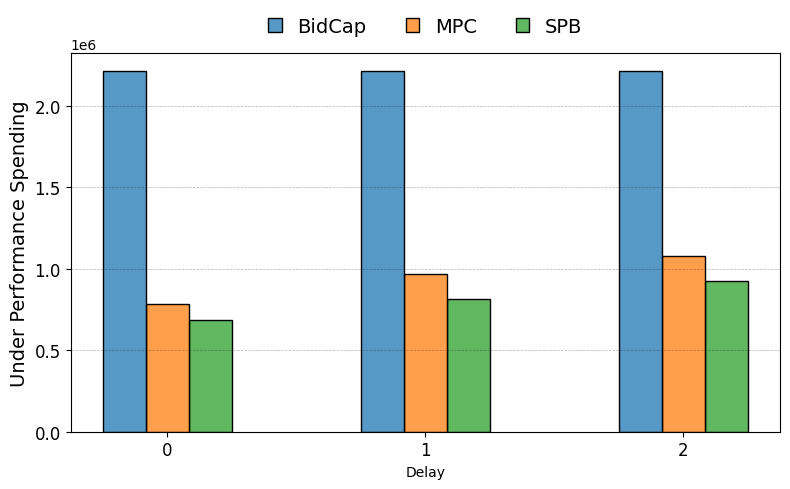
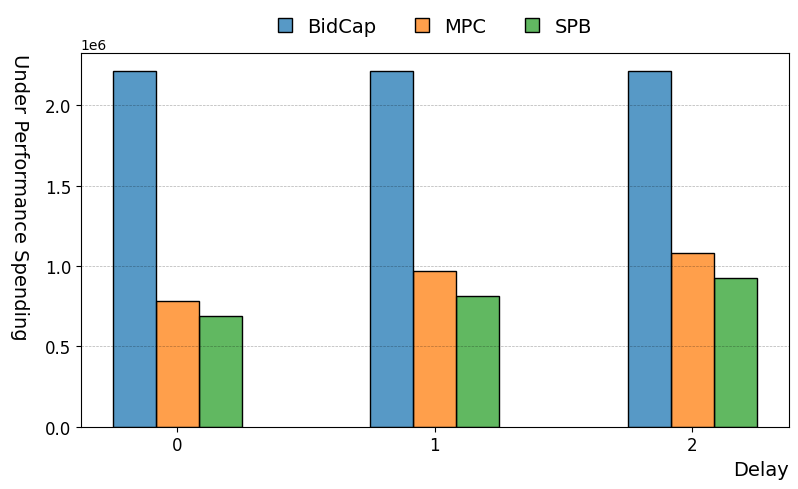
update image style

diff --git a/src/compare.py b/src/compare.py
@@ -4,28 +4,52 @@ import numpy as np
 import seaborn as sns
 import os
 
+# use grayscale paperback version
+paper = False
+
 FIGSIZE = (8, 5)
 FONTSIZE = 14
 E1 = '\u03b51'
 output_dir = '.'
 fmt = 'pdf'
-#sns.set_palette([(0, 0, 0), (1, 1, 1), (0.5, 0.5, 0.5)])
 
 name_map = {
     'Bid Cap Bidder': 'BidCap',
     'MPC Bidder': 'MPC',
     'SPB Bidder': 'SPB',
 }
+measure_map = {}
+dim_map = {}
+rc_params = {}          
+
+if paper:
+    from matplotlib.ticker import FormatStrFormatter
+    sns.set_palette([(0, 0, 0), (1, 1, 1), (0.5, 0.5, 0.5)])
+    rc_params = {'mathtext.default': 'regular'}          
+    measure_map = {
+        'Violation Value Ratio': 'Violation Group GMV Ratio (%)',
+        'Value Ratio': 'GMV Density (%)',
+    }
+
+    dim_map = {'Roi vs Target Roi': '$R_{result}/R_{target}$'}
 
 def plot_measure_over_dim(df, measure_name, dim, cumulative=False, log_y=False, yrange=None, optimal=None):
     fig, axes = plt.subplots(figsize=FIGSIZE)
+    plt.rcParams.update(rc_params)
     #plt.title(f'{measure_name} Over {dim}', fontsize=FONTSIZE + 2, y=-0.2)
     min_measure, max_measure = 0.0, 0.0
-    sns.lineplot(data=df, x=dim, y=measure_name, hue='Agent', ax=axes
-            #,palette=['0', '0', '0'], style='Agent', style_order=sorted(name_map.values()), dashes=[(1, 1), (4, 2), (1, 0)], markers=True
-            )
+    if paper:
+        sns.lineplot(data=df, x=dim, y=measure_name, hue='Agent', ax=axes
+                ,palette=['0', '0', '0'], style='Agent', style_order=sorted(name_map.values()), dashes=[(1, 1), (4, 2), (1, 0)], markers=True)
+    else:
+        sns.lineplot(data=df, x=dim, y=measure_name, hue='Agent', ax=axes)
     plt.xticks(np.arange(df[dim].min(), df[dim].max() + 0.1, 0.1), fontsize=FONTSIZE - 2)
-    plt.ylabel(f'{measure_name}', fontsize=FONTSIZE)
+    name = measure_map.get(measure_name, measure_name)
+    plt.ylabel(name, loc='bottom', fontsize=FONTSIZE, rotation=270)
+    if name.endswith('(%)'):
+        plt.gca().yaxis.set_major_formatter(FormatStrFormatter('%d%%'))
+    axes.yaxis.set_label_coords(-0.1, 1)
+    plt.xlabel(dim_map.get(dim, dim), loc='right', fontsize=FONTSIZE)
     if optimal is not None:
         plt.axhline(optimal, ls='--', color='gray', label='Optimal')
         min_measure = min(min_measure, optimal)
@@ -38,11 +62,12 @@ def plot_measure_over_dim(df, measure_name, dim, cumulative=False, log_y=False, 
         plt.ylim(yrange[0], yrange[1])
     plt.yticks(fontsize=FONTSIZE - 2)
     plt.grid(True, 'major', 'y', ls='--', lw=.5, c='k', alpha=.3)
-    #handles, labels = plt.gca().get_legend_handles_labels()
-    #order = list(reversed(range(len(labels))))
-    plt.legend(
-            #[handles[idx] for idx in order],[labels[idx] for idx in order],
-            loc='lower center', bbox_to_anchor=(.5, 1), fontsize=FONTSIZE,
+
+    handles, labels = plt.gca().get_legend_handles_labels()
+    if paper:
+        order = list(reversed(range(len(labels))))
+        handles, labels = [handles[idx] for idx in order], [labels[idx] for idx in order]
+    plt.legend(handles, labels, loc='lower center', bbox_to_anchor=(.5, 1), fontsize=FONTSIZE,
         ncol=3, title=None, frameon=False, handlelength=3, handleheight=1)
     plt.tight_layout()
     delay_info = ''
@@ -62,13 +87,19 @@ def plot_measure_over_dim(df, measure_name, dim, cumulative=False, log_y=False, 
 
 def plot_measure_over_dim_hist(df, measure_name, dim, cumulative=False, log_y=False, yrange=None, optimal=None):
     fig, axes = plt.subplots(figsize=FIGSIZE)
+    plt.rcParams.update(rc_params)
     #plt.title(f'{measure_name} Over {dim}', fontsize=FONTSIZE + 2, y=-0.2)
     min_measure, max_measure = 0.0, 0.0
     #sns.lineplot(data=df, x=dim, y=measure_name, hue='Agent', ax=axes)
     sns.histplot(data=df, x=dim, weights=measure_name, bins=list(np.arange(-0.05,2.55,0.1)), kde=False,
             hue='Agent', ax=axes, element='bars', multiple='dodge', shrink=.5) 
     plt.xticks(np.arange(df[dim].min(), df[dim].max() + 0.5, 0.5), fontsize=FONTSIZE - 2)
-    plt.ylabel(f'{measure_name}', fontsize=FONTSIZE)
+    name = measure_map.get(measure_name, measure_name)
+    plt.ylabel(name, loc='bottom', fontsize=FONTSIZE, rotation=270)
+    if name.endswith('(%)'):
+        plt.gca().yaxis.set_major_formatter(FormatStrFormatter('%d%%'))
+    axes.yaxis.set_label_coords(-0.1, 1)
+    plt.xlabel(dim_map.get(dim, dim), loc='right', fontsize=FONTSIZE)
     if optimal is not None:
         plt.axhline(optimal, ls='--', color='gray', label='Optimal')
         min_measure = min(min_measure, optimal)
@@ -100,12 +131,18 @@ def plot_measure_over_dim_hist(df, measure_name, dim, cumulative=False, log_y=Fa
 
 def plot_measure_over_delay(df, measure_name, cumulative=False, log_y=False, yrange=None, optimal=None):
     fig, axes = plt.subplots(figsize=FIGSIZE)
+    plt.rcParams.update(rc_params)
     #plt.title(f'{measure_name} Over Delay Level', fontsize=FONTSIZE + 2, y=-0.2)
     min_measure, max_measure = 0.0, 0.0
     sns.histplot(data=df, x='Delay', weights=measure_name, discrete=True, hue='Agent', element='bars',
             multiple='dodge', shrink=.5, ax=axes)
     plt.xticks(range(df['Delay'].max() + 1),fontsize=FONTSIZE - 2)
-    plt.ylabel(f'{measure_name}', fontsize=FONTSIZE)
+    name = measure_map.get(measure_name, measure_name)
+    plt.ylabel(name, loc='bottom', fontsize=FONTSIZE, rotation=270)
+    if name.endswith('(%)'):
+        plt.gca().yaxis.set_major_formatter(FormatStrFormatter('%d%%'))
+    axes.yaxis.set_label_coords(-0.1, 1)
+    plt.xlabel('Delay', loc='right', fontsize=FONTSIZE)
     if optimal is not None:
         plt.axhline(optimal, ls='--', color='gray', label='Optimal')
         min_measure = min(min_measure, optimal)
@@ -152,10 +189,14 @@ if __name__ == '__main__':
 
     e1df = concat_csv(args.bidders, 'e1.csv')
     e1df['Agent'] = e1df['Agent'].apply(lambda name: name_map.get(name, name))
+    if paper:
+        e1df['Violation Value Ratio'] = e1df['Violation Value Ratio'] * 100.0
     for i in range(e1df['Delay'].max() + 1):
         plot_measure_over_dim(e1df[e1df['Delay'] == i], 'Violation Value Ratio', E1)
     roidf = concat_csv(args.bidders, 'roi.csv')
     roidf['Agent'] = roidf['Agent'].apply(lambda name: name_map.get(name, name))
+    if paper:
+        roidf['Value Ratio'] = roidf['Value Ratio'] * 100.0
     for i in range(roidf['Delay'].max() + 1):
         plot_measure_over_dim_hist(roidf[roidf['Delay'] == i], 'Value Ratio', 'Roi vs Target Roi')
     df = concat_csv(args.bidders, 'value_spend.csv')
@@ -179,5 +220,9 @@ if __name__ == '__main__':
     for key in keys:
         plot_measure_over_delay(sumdf, key)
         if not key.startswith('Total'):
+            if paper:
+                sumdf[f'{key} Ratio'] = sumdf[f'{key} Ratio'] * 100.0
+                new_key = key.replace('Value','Group GMV').replace('Spending','Group Spending')
+                measure_map[f'{key} Ratio'] = f'{new_key} Ratio (%)'
             plot_measure_over_delay(sumdf, f'{key} Ratio')
 
